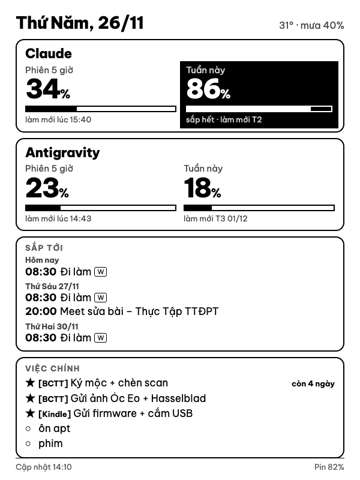
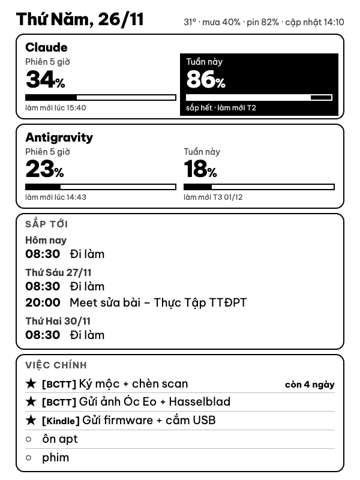
Mẫu A: lịch + việc về kiểu bản đầu, bỏ ký hiệu lịch, giờ cập nhật + pin lên dòng đầu; web app thêm tích xong Tasks + việc xong gần đây

Changed region(s): [[0.0306, 0.0, 0.9778, 1.0], [0.7944, 0.7812, 0.9472, 0.8125]]

diff --git a/mau/mau.html b/mau/mau.html
@@ -7,41 +7,44 @@
 /* Mẫu A (chốt 26/11): 600×800, 2 thẻ hạn mức riêng + lịch, việc gọn. Số Claude là ví dụ. */
 *{box-sizing:border-box;margin:0;padding:0}
 html,body{width:600px;height:800px;overflow:hidden;background:#fff;color:#000}
-body{font-family:"Be Vietnam Pro",sans-serif;font-size:17px;line-height:1.25;padding:20px 26px 0}
-.head{display:flex;justify-content:space-between;align-items:baseline;margin-bottom:10px}
+body{font-family:"Be Vietnam Pro",sans-serif;font-size:17px;line-height:1.25;padding:14px 26px 0}
+.head{display:flex;justify-content:space-between;align-items:baseline;margin-bottom:2px}
 .date{font-size:28px;font-weight:800;letter-spacing:-.5px}
-.meta{font-size:16px;color:#444}
-.card{border:2.5px solid #000;border-radius:14px;padding:9px 14px;margin-top:9px}
+.meta{font-size:14px;color:#444}
+.card{border:2.5px solid #000;border-radius:14px;padding:8px 14px;margin-top:7px}
 .label{font-size:13px;font-weight:700;letter-spacing:1.4px;text-transform:uppercase;color:#555;margin-bottom:4px}
 /* thẻ hạn mức: giống bản đầu, tên công cụ đậm to để phân biệt */
-.brand{font-size:22px;font-weight:800;letter-spacing:-.3px;margin-bottom:2px}
+.brand{font-size:20px;font-weight:800;letter-spacing:-.3px;margin-bottom:2px}
 .usage{display:grid;grid-template-columns:1fr 1fr;gap:12px}
 .u{padding:2px 0}
-.u .name{font-size:15px;color:#444}
-.u .pct{font-size:44px;font-weight:800;line-height:1;letter-spacing:-2px}
+.u .name{font-size:14px;color:#444}
+.u .pct{font-size:38px;font-weight:800;line-height:1;letter-spacing:-2px}
 .u .pct small{font-size:20px;letter-spacing:0}
 .bar{height:11px;border:2px solid #000;margin-top:6px;position:relative}
 .bar i{position:absolute;inset:0 auto 0 0;background:#000}
-.u .sub{font-size:13px;color:#444;margin-top:4px}
+.u .sub{font-size:12px;color:#444;margin-top:4px}
 .u.warn{background:#000;color:#fff;padding:6px 10px;margin:-4px -6px}
 .u.warn .name,.u.warn .sub{color:#ddd}
 .u.warn .bar{border-color:#fff}.u.warn .bar i{background:#fff}
-/* lịch + việc: chữ nhỏ, dòng sát */
-.day{font-size:13px;font-weight:700;color:#444;margin-top:4px}
-.ev{display:flex;gap:10px;padding:1px 0}
-.ev .t{width:48px;flex:none;font-weight:700}
-.tag{font-size:11px;border:1.5px solid #000;padding:0 4px;border-radius:3px;margin-left:5px;vertical-align:2px}
-.todo{display:flex;align-items:baseline;gap:8px;padding:2px 0}
-.todo .s{width:14px;flex:none;font-weight:800}
-.todo .p{font-weight:700;font-size:13px}
+/* lịch + việc: giữ y bản đầu (chữ 19px, kẻ mảnh giữa các việc) */
+.lv{font-size:19px}
+.lv .label{font-size:15px;margin-bottom:6px}
+.day{font-size:16px;font-weight:700;color:#333;margin:6px 0 0}
+.ev{display:flex;gap:12px;padding:2px 0}
+.ev .t{width:62px;flex:none;font-weight:700}
+.ev.none{color:#666;font-style:italic}
+.todo{display:flex;align-items:baseline;gap:10px;padding:3px 0}
+.todo+.todo{border-top:1px solid #bbb}
+.todo .s{width:18px;flex:none;font-weight:800}
+.todo .p{font-weight:700;font-size:15px}
 .todo .txt{flex:1;white-space:nowrap;overflow:hidden;text-overflow:ellipsis}
-.todo .due{font-size:13px;font-weight:700;white-space:nowrap}
-.todo.late{background:#000;color:#fff;padding:2px 6px;margin:0 -6px;border-radius:4px}
+.todo .due{font-size:15px;font-weight:700;white-space:nowrap}
+.todo.late{background:#000;color:#fff;padding:4px 8px;margin:0 -8px}
 .foot{position:absolute;left:26px;right:26px;bottom:14px;display:flex;justify-content:space-between;font-size:13px;color:#555;border-top:1.5px solid #000;padding-top:6px}
 </style>
 </head>
 <body>
-<div class="head"><div class="date">Thứ Năm, 26/11</div><div class="meta">31° · mưa 40%</div></div>
+<div class="head"><div class="date">Thứ Năm, 26/11</div><div class="meta">31° · mưa 40% · pin 82% · cập nhật 14:10</div></div>
 
 <div class="card">
   <div class="brand">Claude</div>
@@ -59,18 +62,18 @@ body{font-family:"Be Vietnam Pro",sans-serif;font-size:17px;line-height:1.25;pad
   </div>
 </div>
 
-<div class="card">
+<div class="card lv">
   <div class="label">Sắp tới</div>
   <div class="day">Hôm nay</div>
-  <div class="ev"><span class="t">08:30</span><span>Đi làm<span class="tag">W</span></span></div>
+  <div class="ev"><span class="t">08:30</span><span>Đi làm</span></div>
   <div class="day">Thứ Sáu 27/11</div>
-  <div class="ev"><span class="t">08:30</span><span>Đi làm<span class="tag">W</span></span></div>
+  <div class="ev"><span class="t">08:30</span><span>Đi làm</span></div>
   <div class="ev"><span class="t">20:00</span><span>Meet sửa bài – Thực Tập TTĐPT</span></div>
   <div class="day">Thứ Hai 30/11</div>
-  <div class="ev"><span class="t">08:30</span><span>Đi làm<span class="tag">W</span></span></div>
+  <div class="ev"><span class="t">08:30</span><span>Đi làm</span></div>
 </div>
 
-<div class="card">
+<div class="card lv">
   <div class="label">Việc chính</div>
   <div class="todo"><span class="s">★</span><span class="txt"><span class="p">[BCTT]</span> Ký mộc + chèn scan</span><span class="due">còn 4 ngày</span></div>
   <div class="todo"><span class="s">★</span><span class="txt"><span class="p">[BCTT]</span> Gửi ảnh Óc Eo + Hasselblad</span></div>
@@ -79,6 +82,5 @@ body{font-family:"Be Vietnam Pro",sans-serif;font-size:17px;line-height:1.25;pad
   <div class="todo"><span class="s">○</span><span class="txt">phim</span></div>
 </div>
 
-<div class="foot"><span>Cập nhật 14:10</span><span>Pin 82%</span></div>
 </body>
 </html>

diff --git a/gas/Code.js b/gas/Code.js
@@ -7,7 +7,8 @@ const KY_HIEU = { 'Work': 'W', 'Study': 'S', 'Ngày lễ ở Việt Nam': 'L' };
 
 function doGet(e) {
   if (!e || !e.parameter || e.parameter.token !== TOKEN) return json_({ loi: 'sai token' });
-  return json_({ luc: new Date().toISOString(), su_kien: suKien_(), viec: viec_() });
+  if (e.parameter.xong) return json_(tichXong_(e.parameter.xong));
+  return json_({ luc: new Date().toISOString(), su_kien: suKien_(), viec: viec_(), xong_gan_day: xongGanDay_() });
 }
 
 function suKien_() {
@@ -25,11 +26,30 @@ function suKien_() {
   return ra.sort((a, b) => a.bat_dau < b.bat_dau ? -1 : 1);
 }
 
-function viec_() {
+function dsMacDinh_() {
   const ds = Tasks.Tasklists.list({ maxResults: 1 }).items || []; // danh sách mặc định = đầu tiên
-  if (!ds.length) return [];
-  const items = Tasks.Tasks.list(ds[0].id, { showCompleted: false, maxResults: 50 }).items || [];
-  return items.filter(t => t.title).map(t => ({ tieu_de: t.title, han: t.due || null }));
+  return ds.length ? ds[0].id : null;
+}
+
+function viec_() {
+  const id = dsMacDinh_(); if (!id) return [];
+  const items = Tasks.Tasks.list(id, { showCompleted: false, maxResults: 50 }).items || [];
+  return items.filter(t => t.title).map(t => ({ id: t.id, tieu_de: t.title, han: t.due || null }));
+}
+
+// Việc tích xong 14 ngày qua: Kindle ẩn việc Bộ Não trùng, script đầu phiên xóa dòng Bộ Não.
+function xongGanDay_() {
+  const id = dsMacDinh_(); if (!id) return [];
+  const tu = new Date(Date.now() - 14 * 864e5).toISOString();
+  const items = Tasks.Tasks.list(id, { showCompleted: true, showHidden: true, completedMin: tu, maxResults: 100 }).items || [];
+  return items.filter(t => t.status === 'completed' && t.title).map(t => ({ id: t.id, tieu_de: t.title, luc: t.completed }));
+}
+
+// Chỉ đổi trạng thái thành "xong", không sửa/xóa gì khác.
+function tichXong_(taskId) {
+  const id = dsMacDinh_(); if (!id) return { loi: 'không có danh sách' };
+  try { Tasks.Tasks.patch({ status: 'completed' }, id, taskId); return { ok: true }; }
+  catch (err) { return { loi: String(err) }; }
 }
 
 // Chạy 1 lần trong trình soạn Apps Script để cấp quyền đọc Lịch + Tasks; in số lượng để kiểm.
